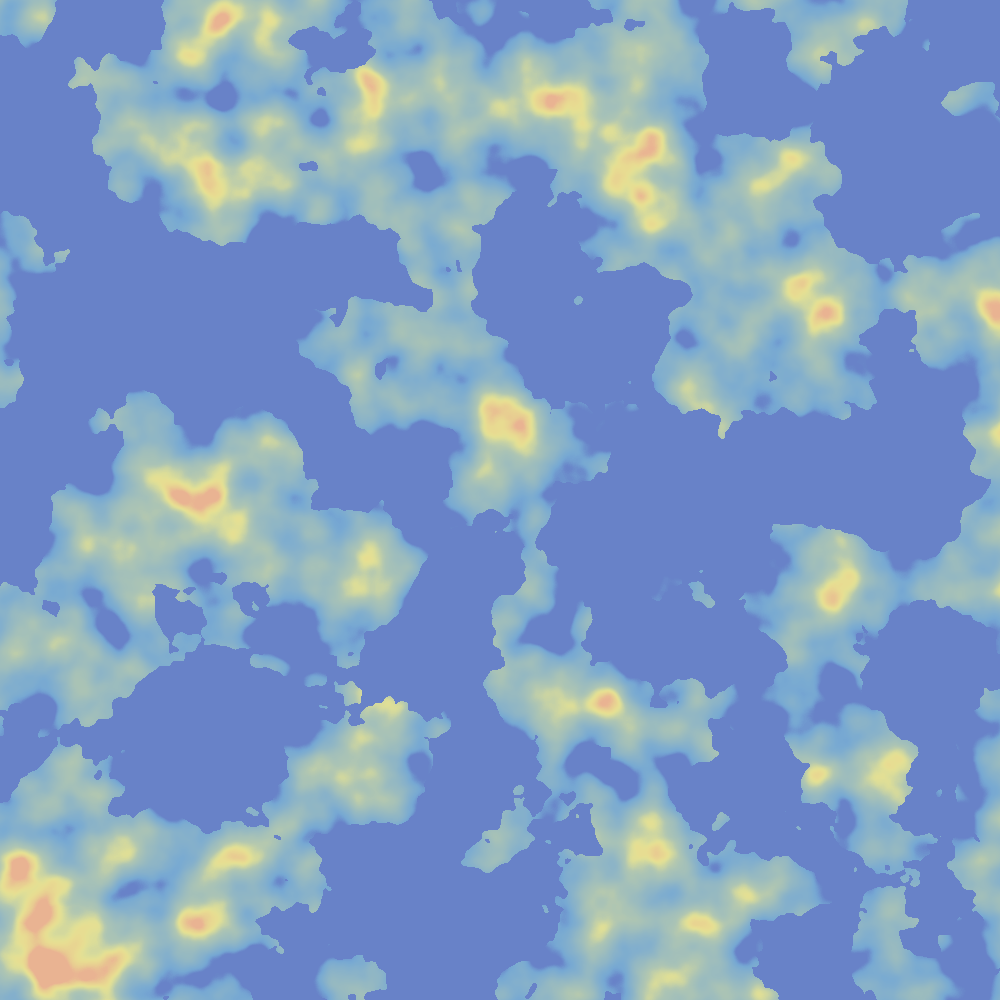
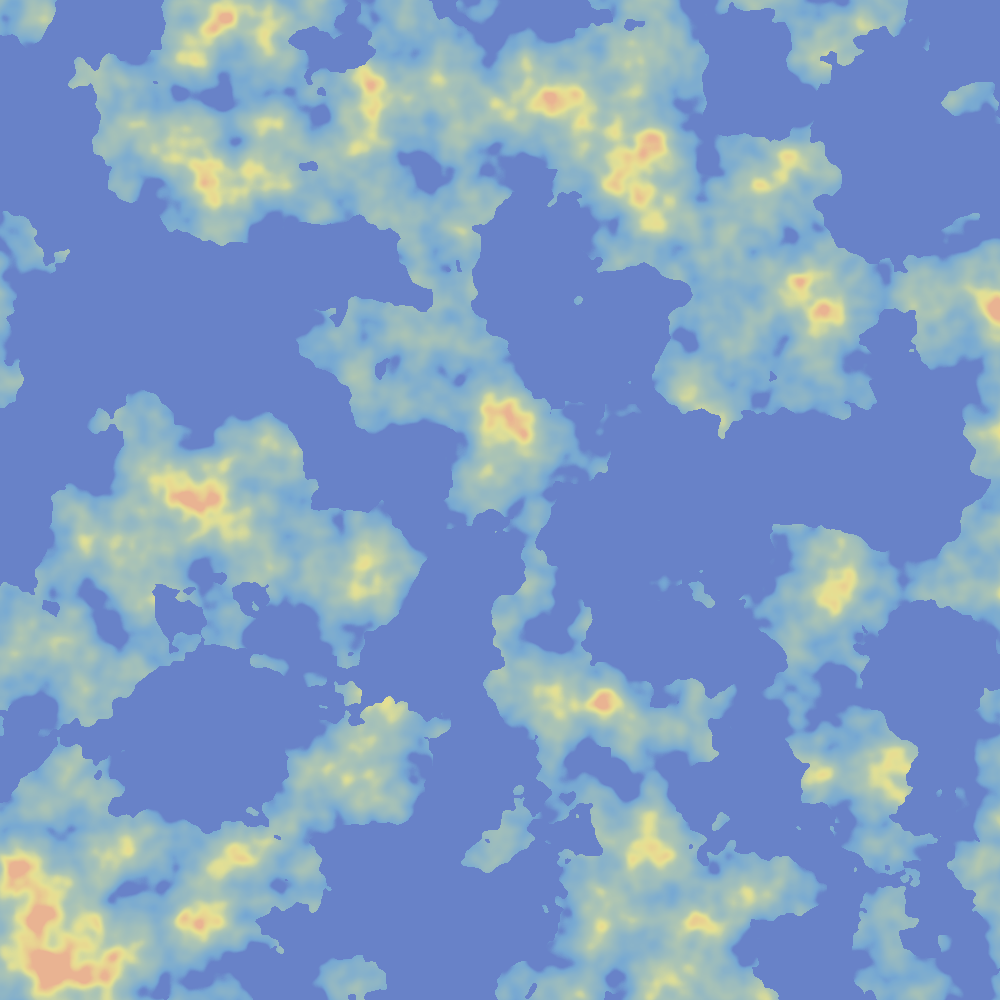
Update images

diff --git a/Assets/Scripts/TerrainGenerator.cs b/Assets/Scripts/TerrainGenerator.cs
@@ -17,7 +17,7 @@ public class TerrainGenerator : MonoBehaviour {
     private Vector2[] temperatureOffsets;
 
     public static int nHeightLayers = 5;
-    public static int nHumidityLayers = 2;
+    public static int nHumidityLayers = 3;
 
     // the higher, the more 'zoomed in'.
     // Needs to be likely to result in non-integer
@@ -76,7 +76,6 @@ public class TerrainGenerator : MonoBehaviour {
         return height;
     }
 
-    // note: there is currently no noise layers for humidity
     private float getHumidity(int x, int y, float heightVal) {
         float humidityScale = scale / 3f;
         float humidity = 0;
@@ -101,7 +100,7 @@ public class TerrainGenerator : MonoBehaviour {
 
         // slightly influence humidity by height
         humidity -= height;
-        humidity += 0.5f;
+        humidity += 0.4f;
         return Mathf.Clamp01(humidity);
     }
 
